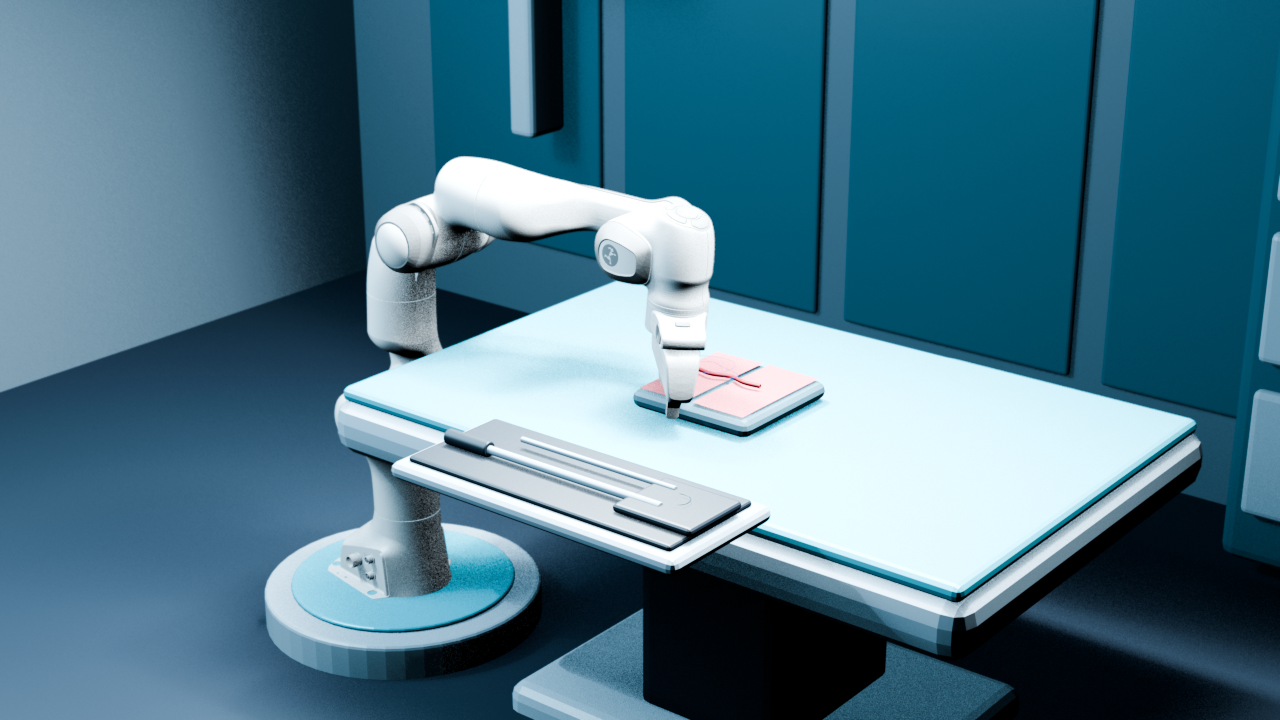
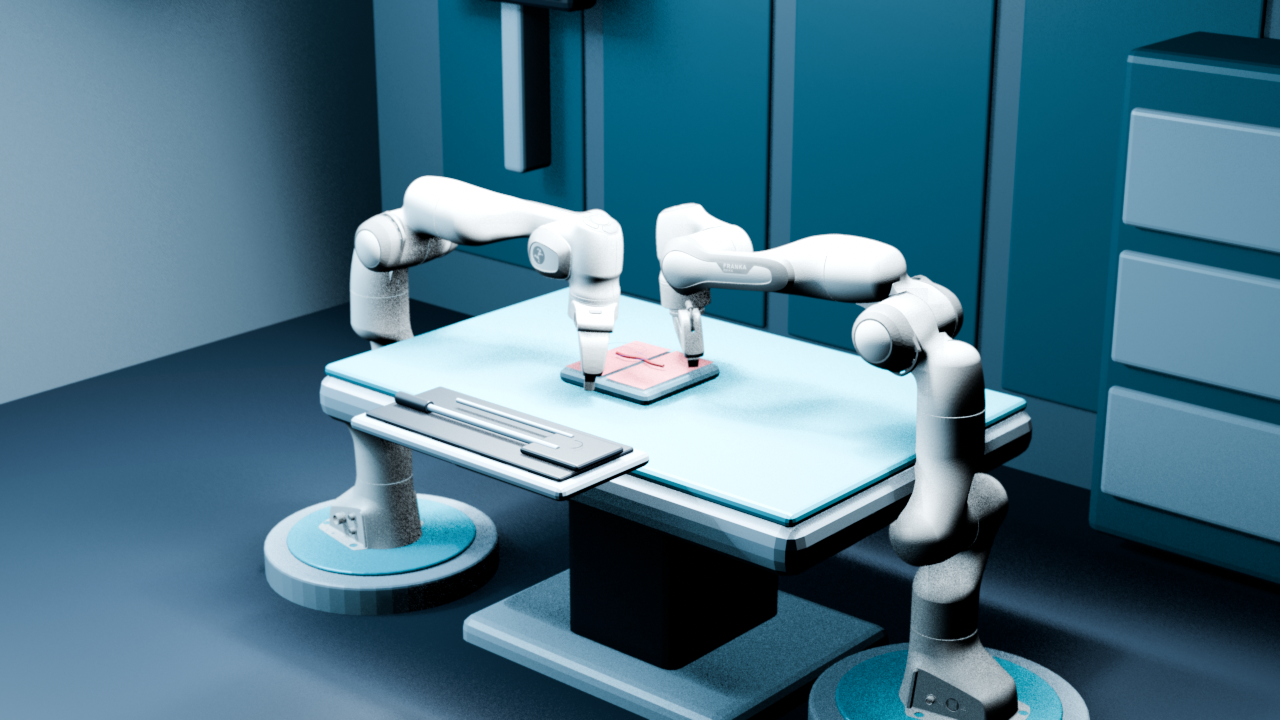
Add bilateral Franka surgery workcell

diff --git a/examples/franka_surgery_room/render_scene.py b/examples/franka_surgery_room/render_scene.py
@@ -138,9 +138,22 @@ def add_room(scene):
     for x in (-0.88, -0.28, 0.32, 0.92):
         add_box("wall panel", (x, 1.282, 0.83), (0.265, 0.008, 0.78), wall_inset, 0.012)
 
-    # Franka is bolted to a dedicated plinth beside the operating surface.
-    add_cylinder("robot pedestal", 0.235, 0.12, (0.0, 0.0, -0.135), steel)
-    add_cylinder("robot pedestal inset", 0.19, 0.01, (0.0, 0.0, -0.071), cyan)
+    # Two Franka stations are placed symmetrically around the operative field.
+    for side, x, y in (("left", 0.0, 0.0), ("right", 1.24, 0.16)):
+        add_cylinder(
+            f"{side} robot pedestal",
+            0.235,
+            0.12,
+            (x, y, -0.135),
+            steel,
+        )
+        add_cylinder(
+            f"{side} robot pedestal inset",
+            0.19,
+            0.01,
+            (x, y, -0.071),
+            cyan,
+        )
 
     # 1.10 x 0.72 m operating table, 0.39 m high in this compact workcell.
     add_box("operating table", (0.65, 0.12, 0.315), (0.55, 0.36, 0.045), steel, 0.035)
@@ -331,15 +344,32 @@ def place_surgical_assets(root: Path) -> None:
     needle_thread.rotation_euler.z = math.radians(-18.0)
 
 
+def place_robot_station(
+    roots,
+    name: str,
+    location: tuple[float, float, float],
+    yaw: float,
+) -> None:
+    station = bpy.data.objects.new(name, None)
+    bpy.context.scene.collection.objects.link(station)
+    bpy.context.view_layer.update()
+    for root in roots.values():
+        world = root.matrix_world.copy()
+        root.parent = station
+        root.matrix_world = world
+    station.location = location
+    station.rotation_euler.z = yaw
+
+
 def set_camera(camera, phase: float) -> None:
     angle = math.radians(-49.0 + 3.5 * math.sin(phase))
-    radius = 2.82 + 0.035 * math.cos(phase)
+    radius = 3.30 + 0.04 * math.cos(phase)
     camera.location = (
-        0.34 + radius * math.cos(angle),
-        0.02 + radius * math.sin(angle),
-        1.48 + 0.035 * math.sin(phase),
+        0.62 + radius * math.cos(angle),
+        0.08 + radius * math.sin(angle),
+        1.56 + 0.035 * math.sin(phase),
     )
-    point_camera(camera, (0.42, 0.12, 0.39))
+    point_camera(camera, (0.62, 0.08, 0.42))
 
 
 def main() -> None:
@@ -351,8 +381,16 @@ def main() -> None:
         raise RuntimeError("--pose-step is outside the accepted trajectory")
 
     camera = configure_scene(options)
-    robot = import_franka(options.franka_description, options.converted_meshes)
-    apply_pose(robot, poses[options.pose_step])
+    left_robot = import_franka(options.franka_description, options.converted_meshes)
+    apply_pose(left_robot, poses[options.pose_step])
+    right_robot = import_franka(options.franka_description, options.converted_meshes)
+    apply_pose(right_robot, poses[options.pose_step])
+    place_robot_station(
+        right_robot,
+        "right Franka visual station",
+        (1.24, 0.16, 0.0),
+        math.pi,
+    )
     place_surgical_assets(options.surgery_assets_root)
 
     if options.output is not None:

diff --git a/examples/franka_surgery_room/README.md b/examples/franka_surgery_room/README.md
@@ -1,10 +1,12 @@
 # Franka surgical workcell scene
 
-This authored presentation scene places an official-mesh Franka at an accepted
-Numi Lab pose beside a dimensioned operating table. The visible tissue, curved
-needle, and coiled needle/thread presentation come from the local DrAnmar
-closure asset set; the remaining room, lighting, instrument tray, and fixtures
-are authored procedurally in Blender.
+This authored presentation scene places two official-mesh Franka arms around a
+dimensioned operating table. Both start from the same accepted Numi Lab pose;
+the right station applies one rigid 180-degree placement transform so the arms
+face inward symmetrically. The visible tissue, curved needle, and coiled
+needle/thread presentation come from the local DrAnmar closure asset set; the
+remaining room, lighting, instrument tray, and fixtures are authored
+procedurally in Blender.
 
 The retained render used DrAnmar revision
 `cc731786a75bea57b8e369c1c13d49407675c6a0` and its `SurgicalClosure/Needle`,
@@ -41,7 +43,8 @@ ffmpeg -y -framerate 24 \
   -loop 0 docs/media/numi-lab-franka-surgery-room.gif
 ```
 
-The scene is visual evidence of authored layout only. The surgical props are
-not yet bound to Numi Lab bodies, collision, deformable tissue, rod/suture
-physics, or a surgical task contract. It therefore does not claim needle
-contact, tissue deformation, suturing, task completion, or hardware execution.
+The scene is visual evidence of authored layout only. The second Franka and
+surgical props are not yet compiled as a dual-robot Numi Lab world with body
+bindings, collision, deformable tissue, rod/suture physics, or a surgical task
+contract. It therefore does not claim coordinated motion, needle contact,
+tissue deformation, suturing, task completion, or hardware execution.

diff --git a/README.md b/README.md
@@ -176,14 +176,16 @@ images use their official upstream visual meshes.
 
 ### Authored surgical workcell
 
-![Franka in the numi-lab surgical workcell](docs/media/numi-lab-franka-surgery-room.gif)
+![Dual Franka arms in the numi-lab surgical workcell](docs/media/numi-lab-franka-surgery-room.gif)
 
-The scene combines an official-mesh Franka at an accepted Numi Lab pose with
-an operating table, sterile drape, instrument tray, suturable tissue phantom,
-unsutured incision, curved needle, and coiled suture presentation. The visible
-surgical props are authored presentation, not yet physics-bound task objects;
-this media does not claim needle contact, tissue deformation, suturing, task
-completion, clinical validity, or hardware execution.
+The scene combines two official-mesh Franka arms facing an operating table
+with a sterile drape, instrument tray, suturable tissue phantom, unsutured
+incision, curved needle, and coiled suture presentation. Both arms start from
+one accepted Numi Lab pose, with a rigid station transform applied to the
+second arm. The second robot and surgical props are authored presentation, not
+yet a compiled dual-robot physics task; this media does not claim coordinated
+motion, needle contact, tissue deformation, suturing, task completion,
+clinical validity, or hardware execution.
 
 ## Architecture
 
